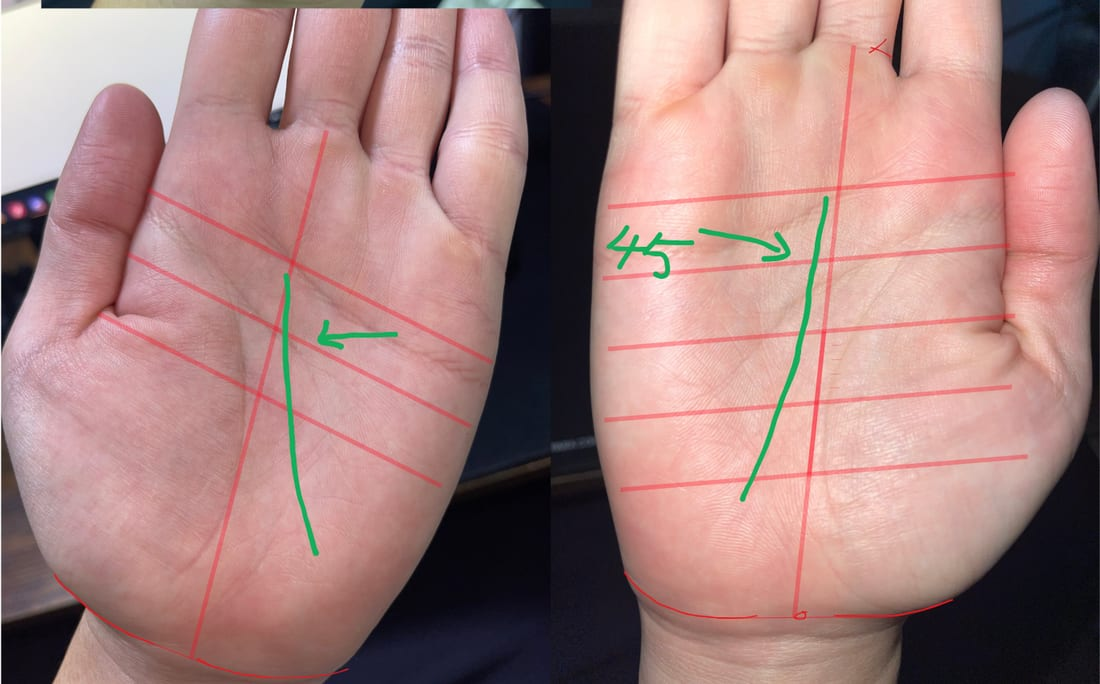
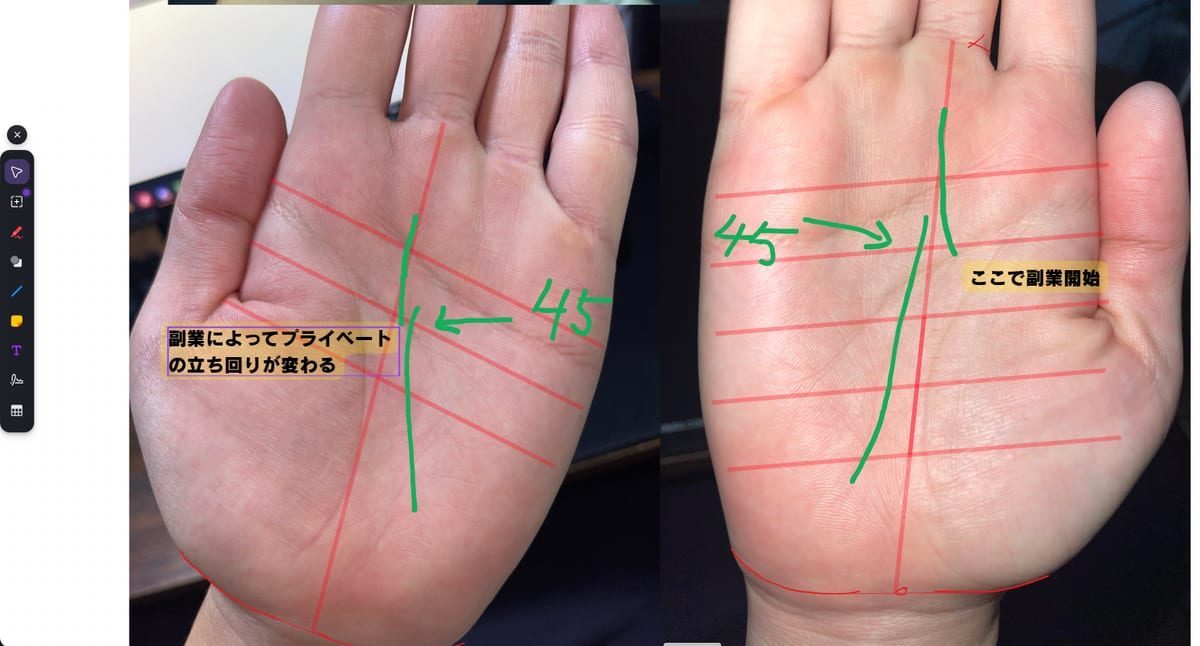
本講座LP：授業画面の写真を、書き込み入りの版に差し替え
- 流年の年齢（45歳）と実際の出来事（副業開始）の照合が分かる版に
- 授業らしさが伝わるよう、画面のツールバーを残したまま掲載

diff --git a/public/lp/honkouza/index.html b/public/lp/honkouza/index.html
@@ -220,9 +220,9 @@
     <figure class="lp-class__fig">
       <picture>
         <source srcset="images/class-ryunen.webp" type="image/webp">
-        <img src="images/class-ryunen.jpg" width="1100" height="684" alt="授業の画面。左右の手の写真に流年の目盛りを引き、運命線をなぞって年齢を照らし合わせているところ" loading="lazy" decoding="async">
+        <img src="images/class-ryunen.jpg" width="1200" height="646" alt="授業の画面。左右の手の写真に流年の目盛りを引き、45歳のところに「ここで副業開始」「副業によってプライベートの立ち回りが変わる」と書き込んで照らし合わせているところ" loading="lazy" decoding="async">
       </picture>
-      <figcaption>授業の画面。流年の目盛りを引き、線をなぞって、出来事の年齢と照らし合わせていきます。</figcaption>
+      <figcaption>授業の画面。流年の目盛りを引き、線の変化が出た年齢と、実際の出来事（副業を始めた時期）を照らし合わせていきます。</figcaption>
     </figure>
 
     <div class="lp-class__body">
